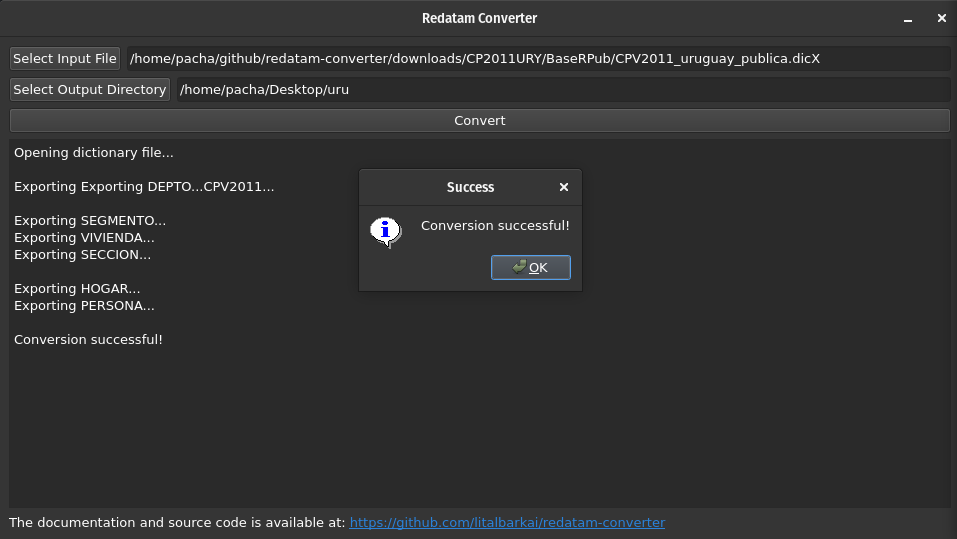
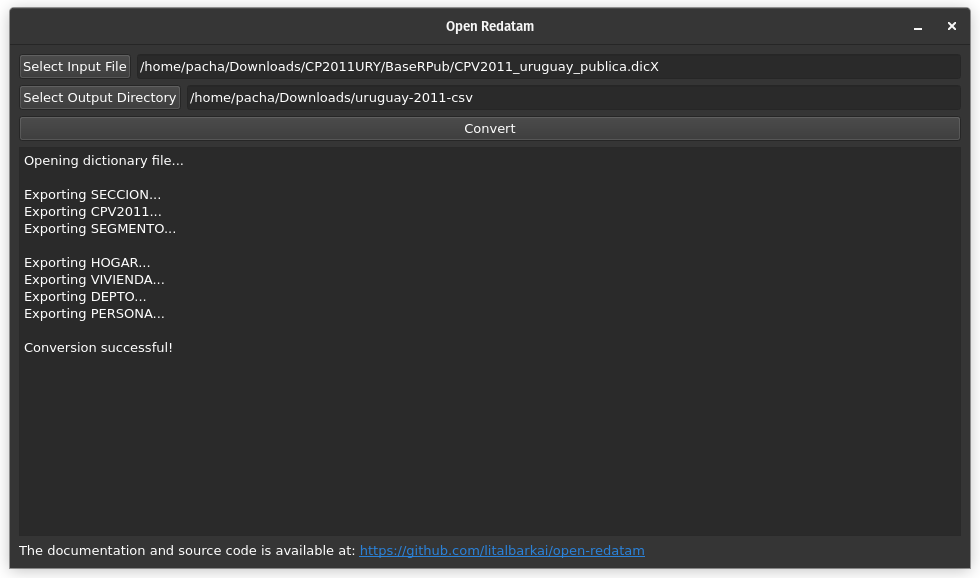
rename to open redatam

diff --git a/gui/mainwindow.cpp b/gui/mainwindow.cpp
@@ -15,7 +15,7 @@ MainWindow::MainWindow(QWidget *parent)
     : QMainWindow(parent), process(new QProcess(this)) {
   // Set window geometry
   setGeometry(0, 0, 400, 300);
-  setWindowTitle("Redatam Converter");
+  setWindowTitle("Open Redatam");
 
   // Central widget and layout
   QWidget *centralWidget = new QWidget(this);
@@ -55,8 +55,8 @@ MainWindow::MainWindow(QWidget *parent)
   footerText->setOpenExternalLinks(true);
   footerText->setText(
       "The documentation and source code is available at: "
-      "<a href=\"https://github.com/litalbarkai/redatam-converter\">https://"
-      "github.com/litalbarkai/redatam-converter</a>");
+      "<a href=\"https://github.com/litalbarkai/open-redatam\">https://"
+      "github.com/litalbarkai/open-redatam</a>");
   footerSizer->addWidget(footerText);
   vbox->addLayout(footerSizer);
 

diff --git a/README.md b/README.md
@@ -1,9 +1,9 @@
 # REDATAM Converter <img src="rpkg/man/figures/logo.svg" align="right" height="139" alt="" />
 
-[![Ubuntu app](https://github.com/pachadotdev/redatam-converter/actions/workflows/build-ubuntu.yml/badge.svg)](https://github.com/pachadotdev/redatam-converter/actions/workflows/build-ubuntu.yml)
-[![Mac app](https://github.com/pachadotdev/redatam-converter/actions/workflows/build-mac.yml/badge.svg)](https://github.com/pachadotdev/redatam-converter/actions/workflows/build-mac.yml)
-[![Build Windows executables](https://github.com/pachadotdev/redatam-converter/actions/workflows/build-windows.yml/badge.svg)](https://github.com/pachadotdev/redatam-converter/actions/workflows/build-windows.yml)
-[![R Package](https://github.com/pachadotdev/redatam-converter/actions/workflows/build-rpkg.yml/badge.svg)](https://github.com/pachadotdev/redatam-converter/actions/workflows/build-rpkg.yml)
+[![Ubuntu app](https://github.com/pachadotdev/open-redatam/actions/workflows/build-ubuntu.yml/badge.svg)](https://github.com/pachadotdev/open-redatam/actions/workflows/build-ubuntu.yml)
+[![Mac app](https://github.com/pachadotdev/open-redatam/actions/workflows/build-mac.yml/badge.svg)](https://github.com/pachadotdev/open-redatam/actions/workflows/build-mac.yml)
+[![Build Windows executables](https://github.com/pachadotdev/open-redatam/actions/workflows/build-windows.yml/badge.svg)](https://github.com/pachadotdev/open-redatam/actions/workflows/build-windows.yml)
+[![R Package](https://github.com/pachadotdev/open-redatam/actions/workflows/build-rpkg.yml/badge.svg)](https://github.com/pachadotdev/open-redatam/actions/workflows/build-rpkg.yml)
 [![BuyMeACoffee](https://raw.githubusercontent.com/pachadotdev/buymeacoffee-badges/main/bmc-donate-white.svg)](https://buymeacoffee.com/pacha)
 
 ## About
@@ -22,7 +22,7 @@ Or use the desktop app:
 
 The REDATAM database will be exported to CSV files and an XML summary of the tables and variables. It was created to recover information of REDATAM databases for statistical analysis using standard tools such as SPSS, STATA, R, etc.
 
-This software is a full C++ ground-up rewrite of the original [redatam-converter](https://github.com/discontinuos/redatam-converter/blob/master/README-EN.md) created by Pablo de Grande and written in C#. Rewriting the original C# code in C++ allows for better portability and the ability to use the program within R, Python, and other languages.
+This software is a full C++ ground-up rewrite of the original [open-redatam](https://github.com/discontinuos/open-redatam/blob/master/README-EN.md) created by Pablo de Grande and written in C#. Rewriting the original C# code in C++ allows for better portability and the ability to use the program within R, Python, and other languages.
 
 **For the R package that allows to directly read REDATAM databases in R, see the [rpkg](rpkg) directory.**
 
@@ -36,7 +36,7 @@ On Ubuntu, run the following commands:
 
 ```bash
 # needs "sudo apt install gdebi-core" if you don't have gdebi
-wget https://github.com/pachadotdev/redatam-converter/releases/download/v0.1/redatam_0.1_amd64.deb
+wget https://github.com/pachadotdev/open-redatam/releases/download/v0.1/redatam_0.1_amd64.deb
 sudo dpkg -i redatam_0.1_amd64.deb
 ```
 
@@ -45,12 +45,12 @@ This will install `redatam` and `redatamgui` in `/usr/local/bin/` with the neces
 On Mac, run the following command:
 
 ```bash
-sudo bash -c "$(wget -qO- https://raw.githubusercontent.com/pachadotdev/redatam-converter/main/install/mac.sh)"
+sudo bash -c "$(wget -qO- https://raw.githubusercontent.com/pachadotdev/open-redatam/main/install/mac.sh)"
 ```
 
 This will install `redatam` and `redatamgui` in `/usr/local/bin/`.
 
-On Windows, download the [latest release](https://github.com/pachadotdev/redatam-converter/releases/download/v0.1/redatam-windows.zip) and extract it. The executables are `redatam` and `redatamgui` directories, and ZIP is self-contained to ensure that the software works without extra software.
+On Windows, download the [latest release](https://github.com/pachadotdev/open-redatam/releases/download/v0.1/redatam-windows.zip) and extract it. The executables are `redatam` and `redatamgui` directories, and ZIP is self-contained to ensure that the software works without extra software.
 
 ### From source
 
@@ -59,7 +59,7 @@ The software requires C++11 or higher to compile.
 On Linux, run the following commands:
 
 ```bash
-git clone https://github.com/pachadotdev/redatam-converter.git
+git clone https://github.com/pachadotdev/open-redatam.git
 sudo apt-get update
 sudo apt-get install -y qtbase5-dev qtbase5-dev-tools qt5-qmake
 make
@@ -70,7 +70,7 @@ Then run `./redatam` or `./redatamgui`.
 On Mac, run the following commands:
 
 ```bash
-git clone https://github.com/pachadotdev/redatam-converter.git
+git clone https://github.com/pachadotdev/open-redatam.git
 brew install qt@5
 export PATH="/opt/homebrew/opt/qt@5/bin:$PATH"
 export LDFLAGS="-L/opt/homebrew/opt/qt@5/lib"
@@ -86,7 +86,7 @@ On Windows, you need [Visual Studio Code 2019 with C++ development tools](https:
 Then run the following commands:
 
 ```bash
-git clone https://github.com/pachadotdev/redatam-converter.git
+git clone https://github.com/pachadotdev/open-redatam.git
 
 cd redatamwindows
 cmake -G "Visual Studio 16 2019" .

diff --git a/pypkg/README.md b/pypkg/README.md
@@ -1,22 +1,22 @@
 # REDATAM Converter (Python Package) <img src="man/figures/logo.svg" align="right" height="139" alt="" />
 
-[![Ubuntu app](https://github.com/pachadotdev/redatam-converter/actions/workflows/build-ubuntu.yml/badge.svg)](https://github.com/pachadotdev/redatam-converter/actions/workflows/build-ubuntu.yml)
-[![Mac app](https://github.com/pachadotdev/redatam-converter/actions/workflows/build-mac.yml/badge.svg)](https://github.com/pachadotdev/redatam-converter/actions/workflows/build-mac.yml)
-[![Build Windows executables](https://github.com/pachadotdev/redatam-converter/actions/workflows/build-windows.yml/badge.svg)](https://github.com/pachadotdev/redatam-converter/actions/workflows/build-windows.yml)
-[![R Package](https://github.com/pachadotdev/redatam-converter/actions/workflows/build-rpkg.yml/badge.svg)](https://github.com/pachadotdev/redatam-converter/actions/workflows/build-rpkg.yml)
+[![Ubuntu app](https://github.com/pachadotdev/open-redatam/actions/workflows/build-ubuntu.yml/badge.svg)](https://github.com/pachadotdev/open-redatam/actions/workflows/build-ubuntu.yml)
+[![Mac app](https://github.com/pachadotdev/open-redatam/actions/workflows/build-mac.yml/badge.svg)](https://github.com/pachadotdev/open-redatam/actions/workflows/build-mac.yml)
+[![Build Windows executables](https://github.com/pachadotdev/open-redatam/actions/workflows/build-windows.yml/badge.svg)](https://github.com/pachadotdev/open-redatam/actions/workflows/build-windows.yml)
+[![R Package](https://github.com/pachadotdev/open-redatam/actions/workflows/build-rpkg.yml/badge.svg)](https://github.com/pachadotdev/open-redatam/actions/workflows/build-rpkg.yml)
 [![BuyMeACoffee](https://raw.githubusercontent.com/pachadotdev/buymeacoffee-badges/main/bmc-donate-white.svg)](https://buymeacoffee.com/pacha)
 
 ## About
 
 The REDATAM Converter is a software for extracting raw information from REDATAM databases.
 
-For the standalone C++ command line application and desktop app, see the [main directory](https://github.com/pachadotdev/redatam-converter/) of this repository.
+For the standalone C++ command line application and desktop app, see the [main directory](https://github.com/pachadotdev/open-redatam/) of this repository.
 
 Install the Python package an end user using conda (see step 1 [here](https://github.com/pachadotdev/my-python-journey/) to install miniconda):
 
 ```
-git clone https://github.com/pachadotdev/redatam-converter.git
-cd redatam-converter/pypkg
+git clone https://github.com/pachadotdev/open-redatam.git
+cd open-redatam/pypkg
 
 conda create -n "redatam" python=3.8.0 ipython
 conda activate redatam

diff --git a/rpkg/README.md b/rpkg/README.md
@@ -1,21 +1,21 @@
 # REDATAM Converter (R Package) <img src="man/figures/logo.svg" align="right" height="139" alt="" />
 
-[![Ubuntu app](https://github.com/pachadotdev/redatam-converter/actions/workflows/build-ubuntu.yml/badge.svg)](https://github.com/pachadotdev/redatam-converter/actions/workflows/build-ubuntu.yml)
-[![Mac app](https://github.com/pachadotdev/redatam-converter/actions/workflows/build-mac.yml/badge.svg)](https://github.com/pachadotdev/redatam-converter/actions/workflows/build-mac.yml)
-[![Build Windows executables](https://github.com/pachadotdev/redatam-converter/actions/workflows/build-windows.yml/badge.svg)](https://github.com/pachadotdev/redatam-converter/actions/workflows/build-windows.yml)
-[![R Package](https://github.com/pachadotdev/redatam-converter/actions/workflows/build-rpkg.yml/badge.svg)](https://github.com/pachadotdev/redatam-converter/actions/workflows/build-rpkg.yml)
+[![Ubuntu app](https://github.com/pachadotdev/open-redatam/actions/workflows/build-ubuntu.yml/badge.svg)](https://github.com/pachadotdev/open-redatam/actions/workflows/build-ubuntu.yml)
+[![Mac app](https://github.com/pachadotdev/open-redatam/actions/workflows/build-mac.yml/badge.svg)](https://github.com/pachadotdev/open-redatam/actions/workflows/build-mac.yml)
+[![Build Windows executables](https://github.com/pachadotdev/open-redatam/actions/workflows/build-windows.yml/badge.svg)](https://github.com/pachadotdev/open-redatam/actions/workflows/build-windows.yml)
+[![R Package](https://github.com/pachadotdev/open-redatam/actions/workflows/build-rpkg.yml/badge.svg)](https://github.com/pachadotdev/open-redatam/actions/workflows/build-rpkg.yml)
 [![BuyMeACoffee](https://raw.githubusercontent.com/pachadotdev/buymeacoffee-badges/main/bmc-donate-white.svg)](https://buymeacoffee.com/pacha)
 
 ## About
 
 The REDATAM Converter is a software for extracting raw information from REDATAM databases.
 
-For the standalone C++ command line application and desktop app, see the [main directory](https://github.com/pachadotdev/redatam-converter/) of this repository.
+For the standalone C++ command line application and desktop app, see the [main directory](https://github.com/pachadotdev/open-redatam/) of this repository.
 
 To install the R package, run the following command:
 
 ```r
-remotes::install_github("pachadotdev/redatam-converter/rpkg", subdir = "rpkg")
+remotes::install_github("pachadotdev/open-redatam/rpkg", subdir = "rpkg")
 ```
 
 ## Usage
